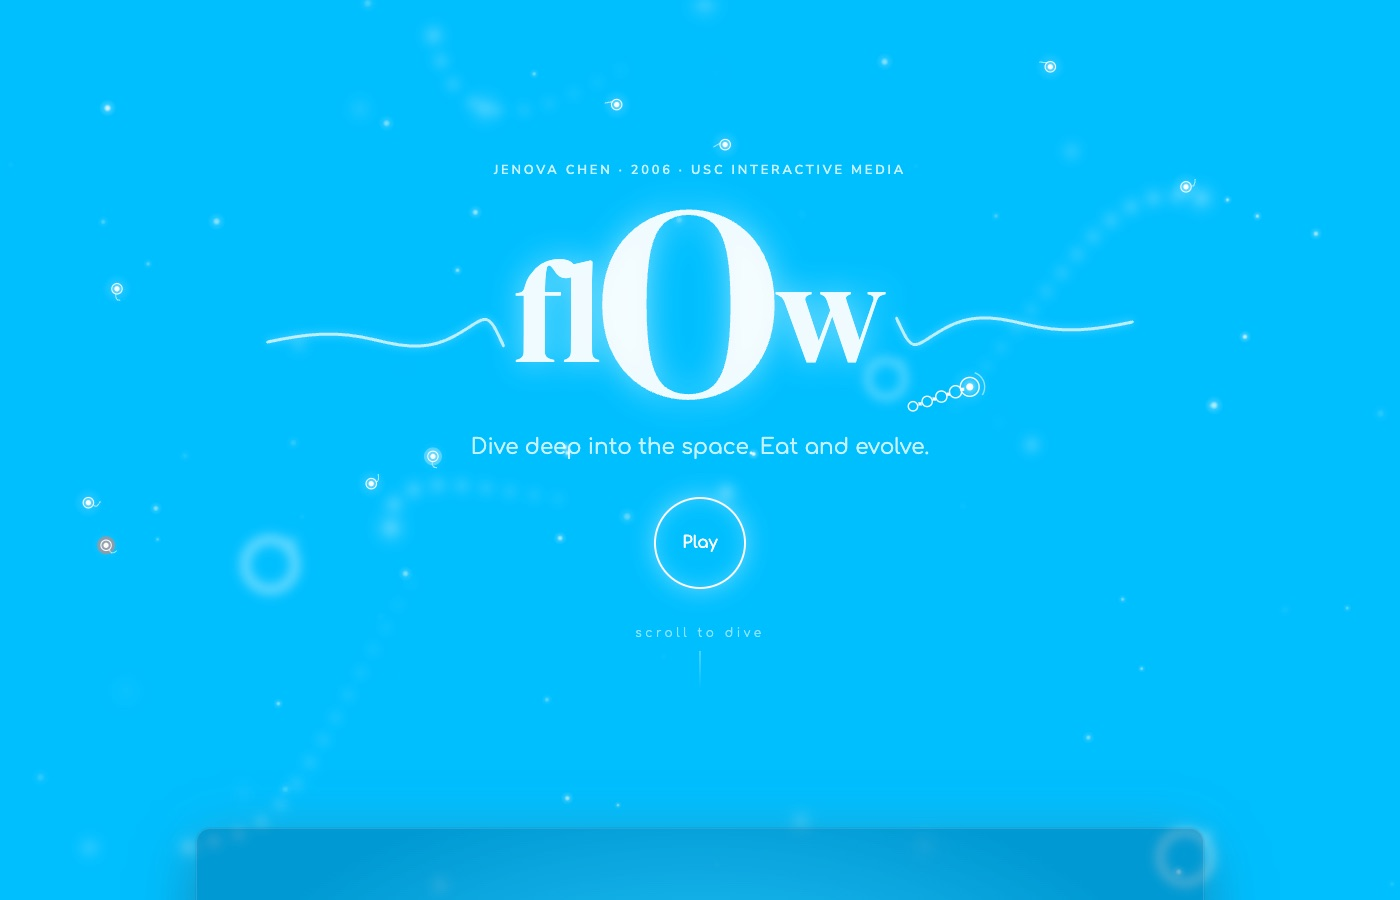
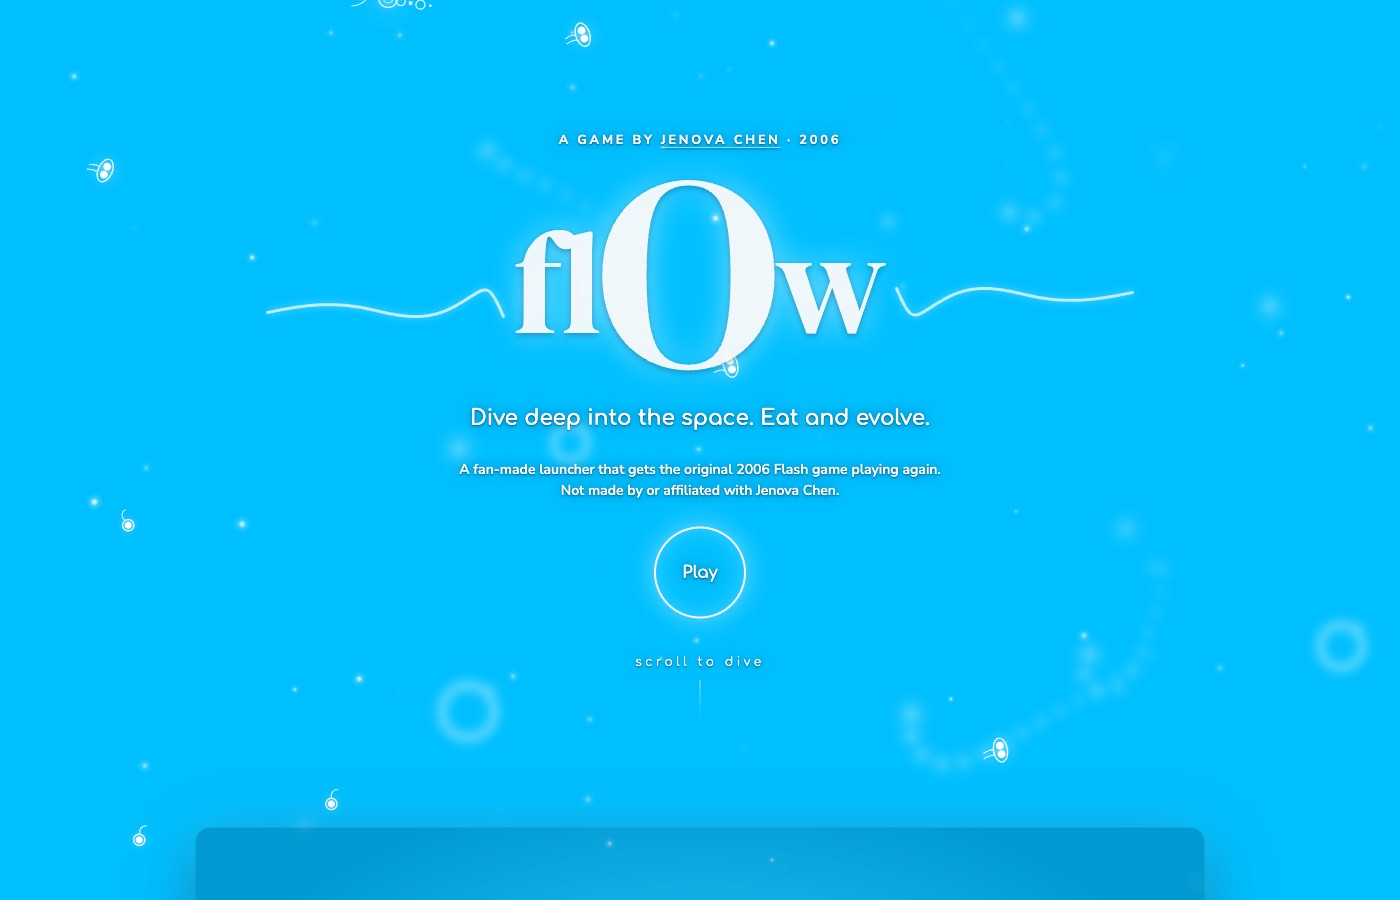
flOw draft: page now says it's a fan launcher; fresh screenshot

diff --git a/_drafts/flow-tribute.md b/_drafts/flow-tribute.md
@@ -50,7 +50,7 @@ The page is styled like the game. The background colour comes straight from `lev
 
 <img class="flow-shot" src="/assets/img/flow-deep.jpg" alt="The Manta Boss level: a dark teal sea with the huge kite-shaped manta, curved sides and glowing nodes, beside the player's small creature">
 
-For The Space Game I kept the game files out of the repo and had people download them themselves. That would be miserable here with 43 files, so this time the page hosts them, unmodified, and lists where each one came from, with Jenova Chen's server first. If he'd rather it didn't, I'll take them down.
+For The Space Game I kept the game files out of the repo and had people download them themselves. That would be miserable here with 43 files, so this time the page hosts them, unmodified, with links back to Jenova Chen's site, and says up front that it's a fan-made launcher, not his. If he'd rather it didn't, I'll take them down.
 
 I hope you love this one as much as I do :)
 
